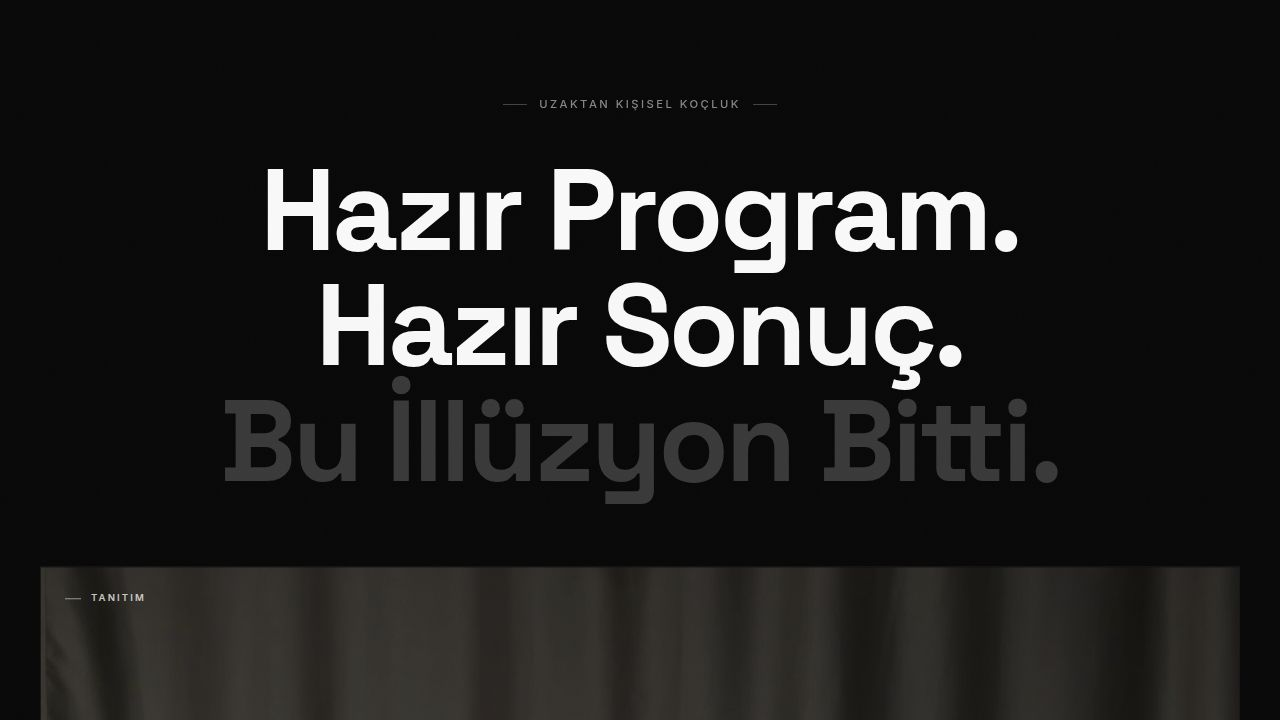
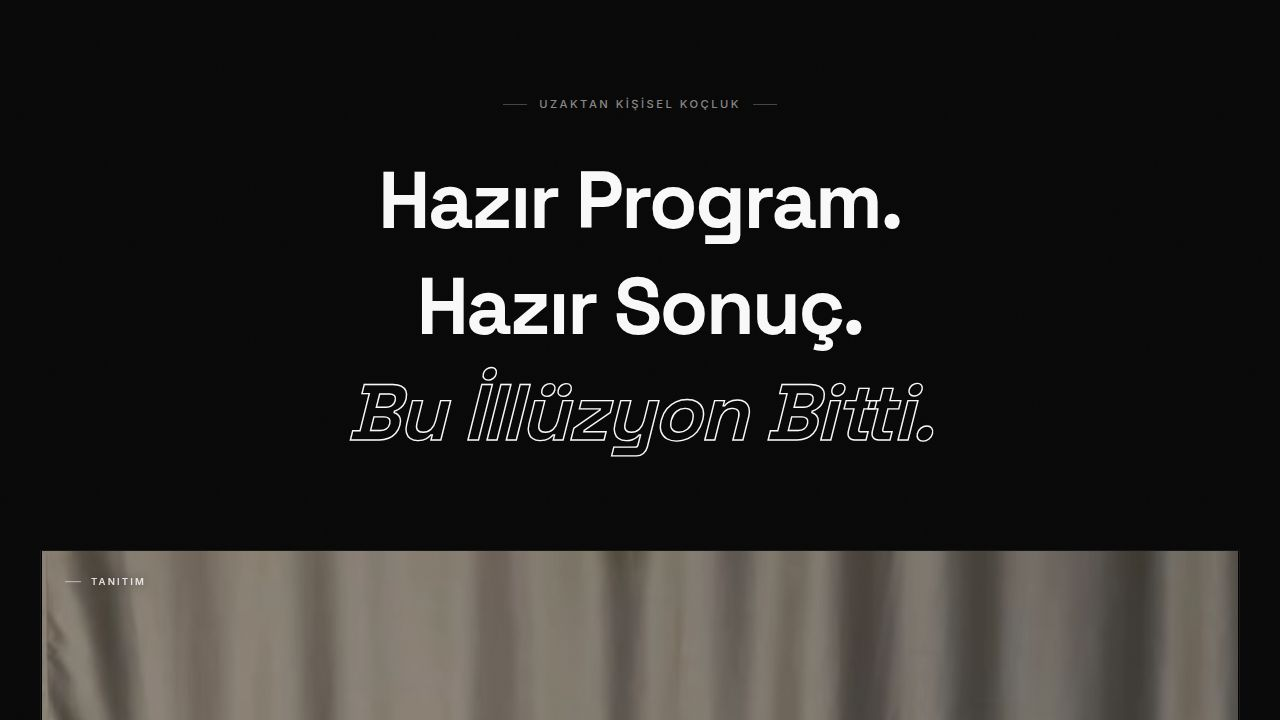
Adjust website text sizes for better desktop viewing
Reduce font sizes across hero and footer components for improved desktop readability.

Replit-Commit-Author: Agent
Replit-Commit-Session-Id: 2175ae4d-5643-47ba-a307-9183005b1733
Replit-Commit-Checkpoint-Type: full_checkpoint
Replit-Commit-Event-Id: 89517914-c875-4ab8-be7f-58cf7c375dc5
Replit-Commit-Screenshot-Url: https://storage.googleapis.com/screenshot-production-us-central1/2a65ad81-9f39-487b-bb77-b329989524c7/2175ae4d-5643-47ba-a307-9183005b1733/DU2KRts
Replit-Helium-Checkpoint-Created: true

diff --git a/artifacts/fitness-coach/src/components/Hero.tsx b/artifacts/fitness-coach/src/components/Hero.tsx
@@ -34,7 +34,7 @@ export default function Hero() {
         <h1
           className="font-display mb-16 md:mb-20 text-center"
           style={{
-            fontSize: "clamp(2.6rem, 6.2vw, 5.6rem)",
+            fontSize: "clamp(2.6rem, 5.4vw, 4.8rem)",
             fontWeight: 700,
             letterSpacing: "-0.03em",
             color: "#FAFAFA",

diff --git a/artifacts/fitness-coach/src/components/Footer.tsx b/artifacts/fitness-coach/src/components/Footer.tsx
@@ -42,7 +42,7 @@ export default function Footer() {
           <h2
             className="font-display"
             style={{
-              fontSize: "clamp(2.4rem, 5vw, 4rem)",
+              fontSize: "clamp(2.2rem, 3.4vw, 3rem)",
               fontWeight: 700,
               letterSpacing: "-0.04em",
               color: "#FAFAFA",
